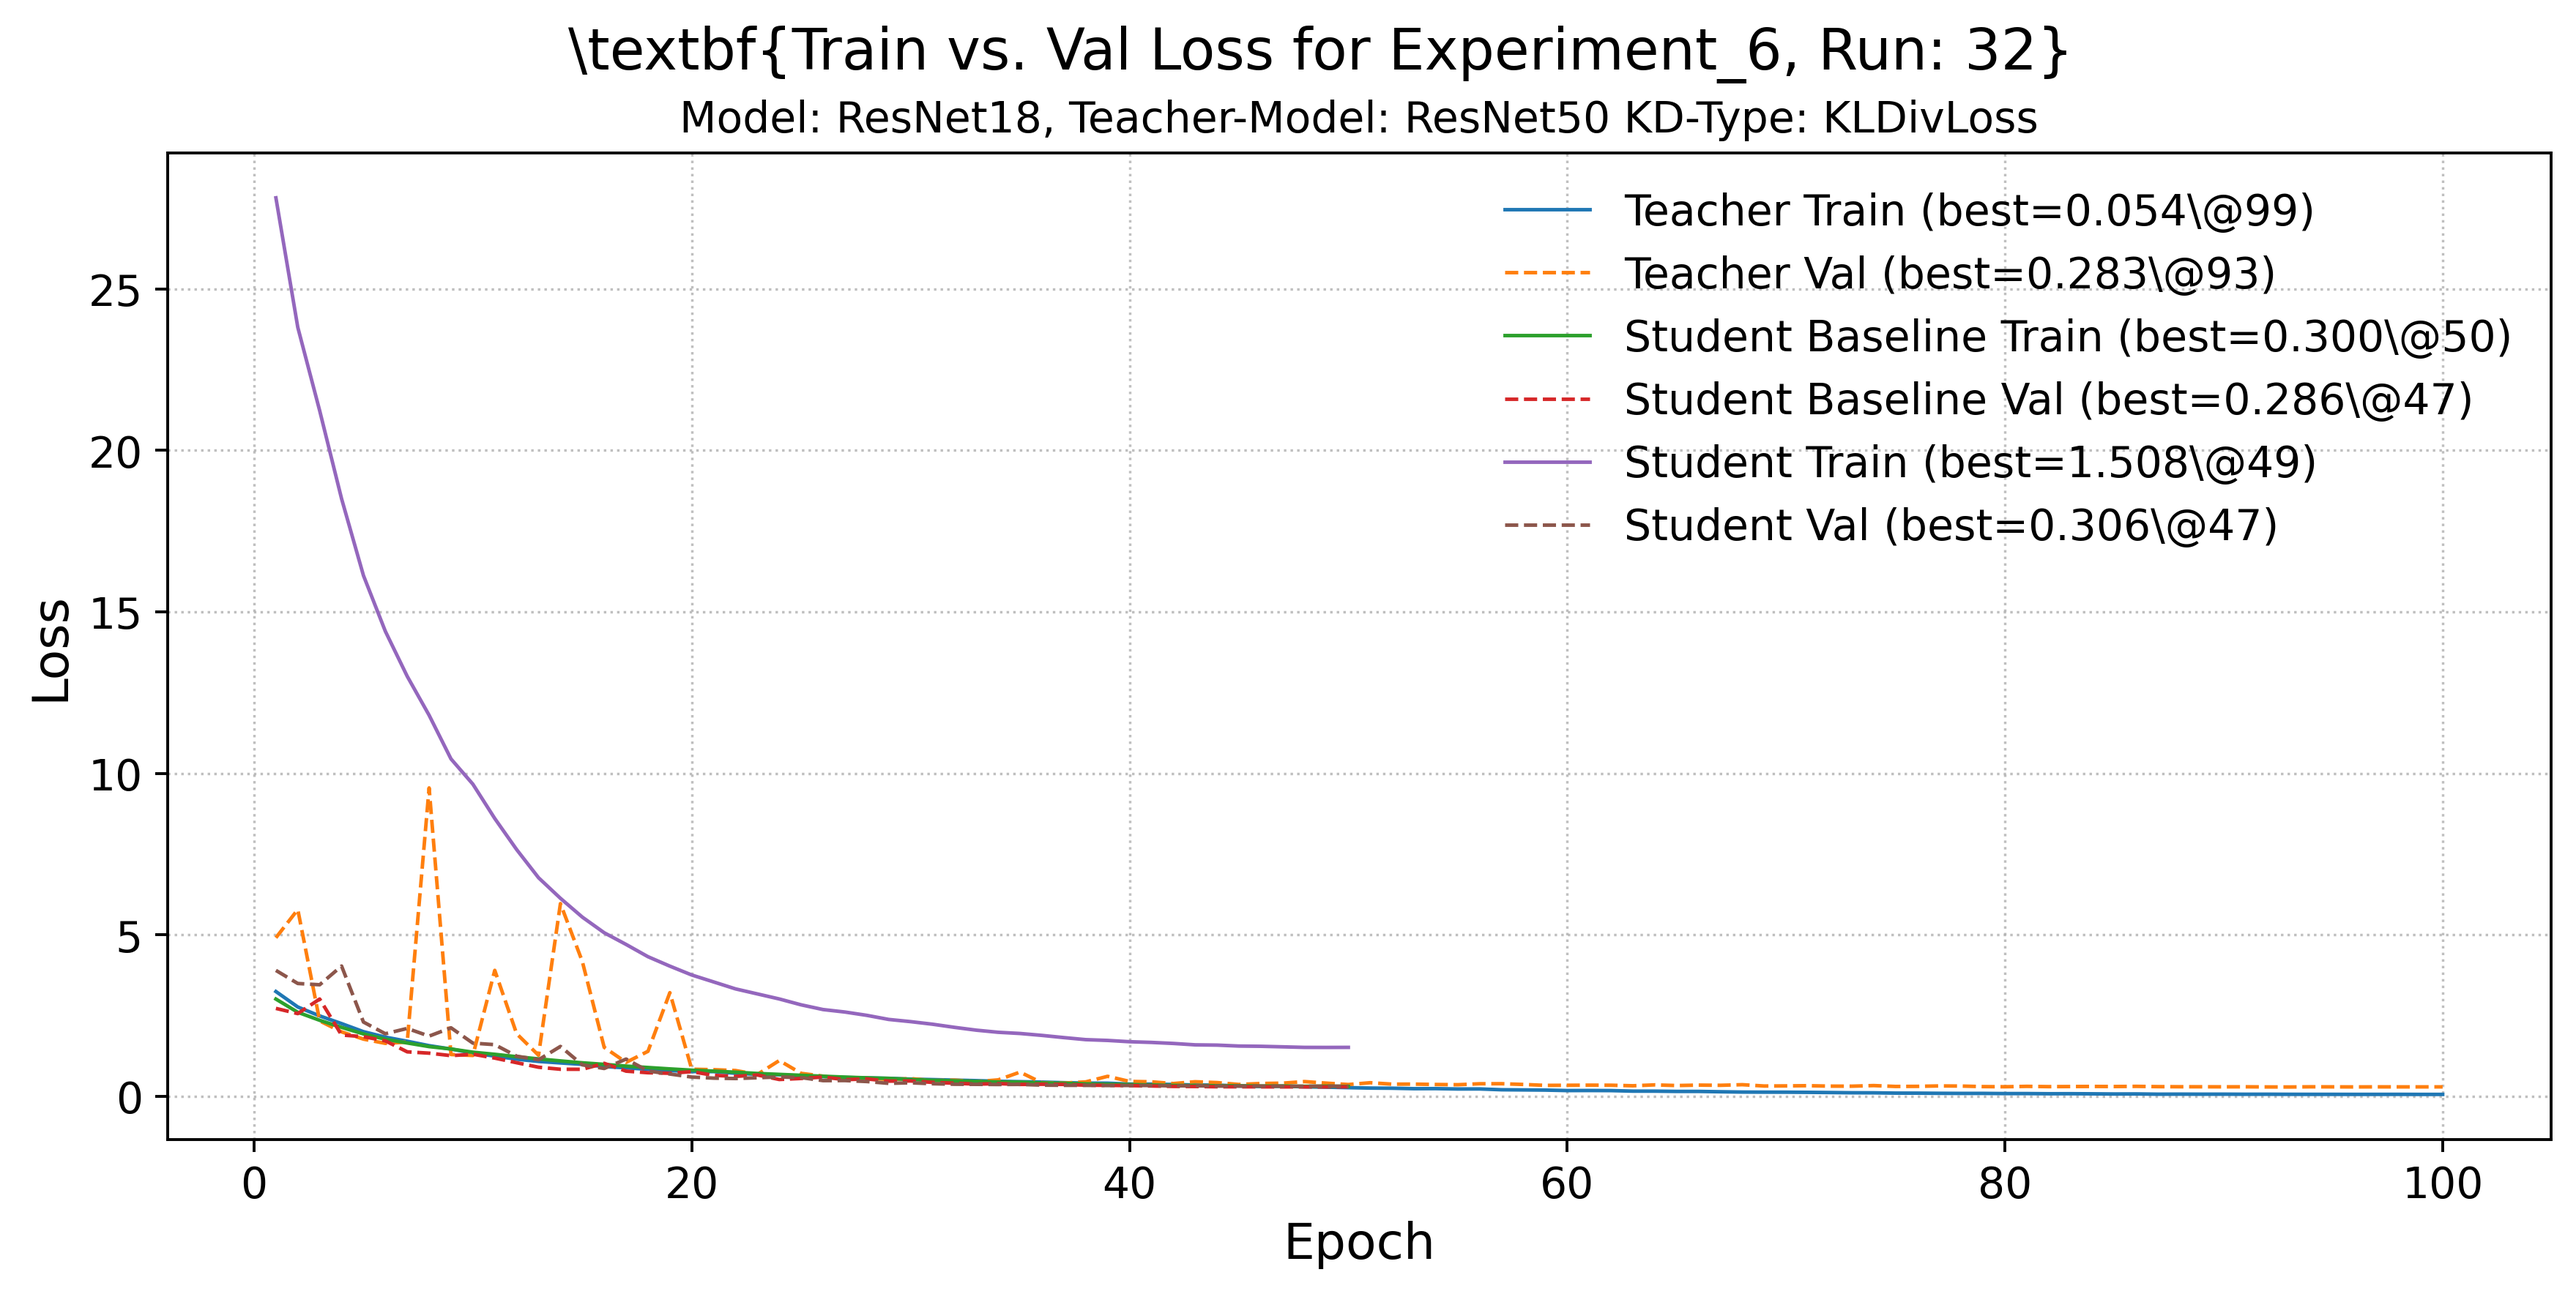
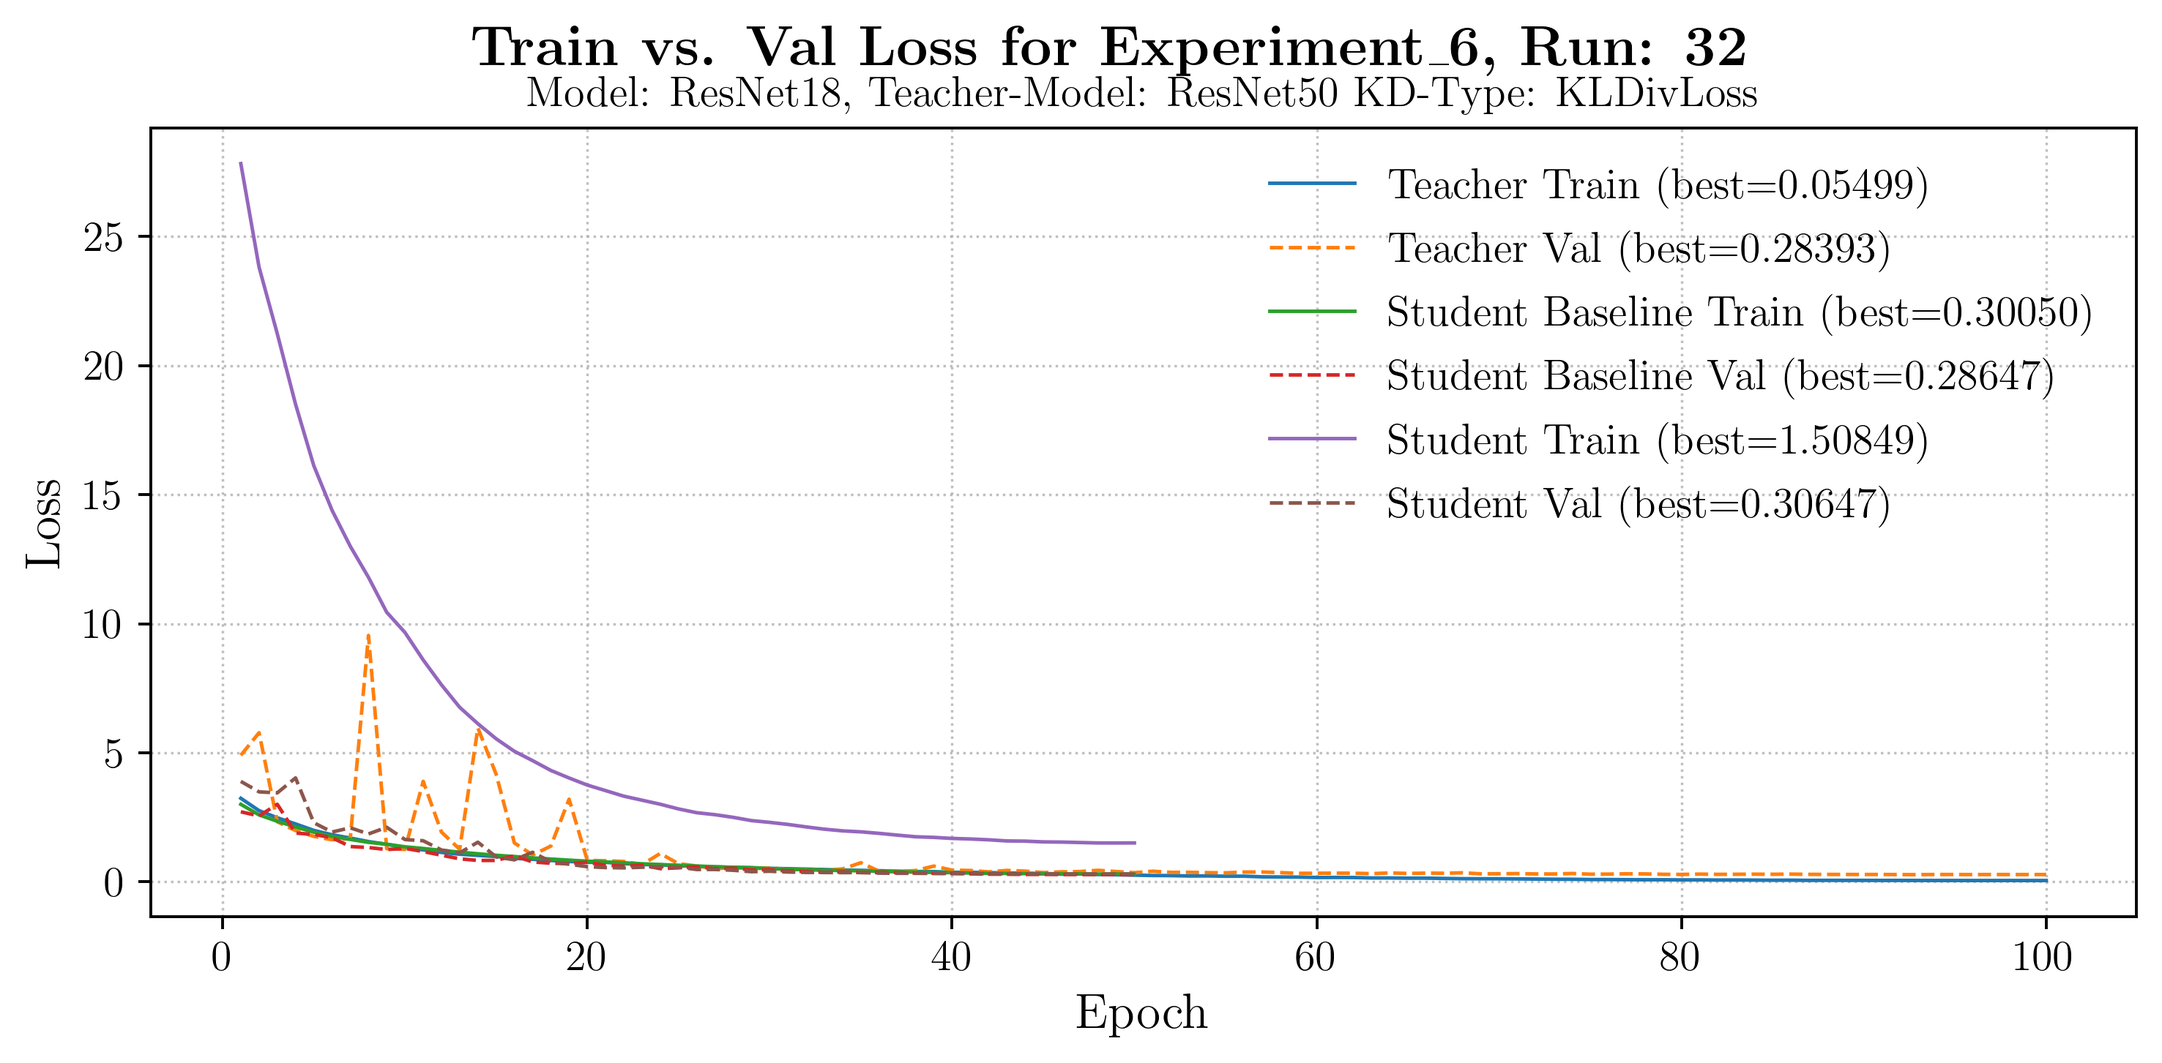
do plots exp6

diff --git a/framework/utils/plot_repository.py b/framework/utils/plot_repository.py
@@ -25,6 +25,46 @@ rcParams.update({
     "figure.dpi": 400
 })
 
+def plot_teacher_student_metrics(cfg_path, project_root=".", set_png_dpi=400, use_latex=True):
+    """
+    Plot loss and validation accuracy vs. epoch for teacher, student with TS, and student without TS.
+    Each plot is saved separately. Legends include best values per series.
+    All paths are resolved relative to the given project_root.
+
+    Returns:
+        dict with keys 'loss' and 'val_acc' pointing to saved PNG paths.
+    """
+    # Load config
+    cfg = load_config_toml(cfg_path)
+
+    # Global figure DPI (keeps your original behavior)
+    rcParams.update({"figure.dpi": set_png_dpi})
+    rcParams.update({"text.usetex": use_latex})
+
+    # Resolve paths
+    project_root = Path(project_root).expanduser().resolve()
+    cfg_path = Path(cfg_path).expanduser().resolve()
+    dir_config = cfg_path.parent
+
+    # Load available series
+    series = _prepare_series(cfg, project_root, cfg_path)
+
+    # Prepare output dir
+    save_dir = dir_config / "plots"
+    save_dir.mkdir(parents=True, exist_ok=True)
+
+    figsize = (10, 4)
+
+    # Make plots
+    loss_path = _plot_loss(series, cfg, save_dir,figsize=figsize)
+    val_acc_path = _plot_val_accuracy(series, cfg, save_dir,figsize=figsize)
+
+    tv_acc_path = _plot_train_vs_val_accuracy(series, cfg, save_dir,figsize=figsize)
+    tv_loss_path = _plot_train_vs_val_loss(series, cfg, save_dir,figsize=figsize)
+
+    log.info(f"Plots generated save dir: {save_dir}")
+    return {"loss": str(loss_path), "val_acc": str(val_acc_path)}
+
 def _load_metrics(path: str) -> pd.DataFrame:
     """Load a JSONL metrics file (one JSON object per line) and return a DataFrame with epoch and metrics."""
     with open(path, "r") as f:
@@ -199,7 +239,6 @@ def _plot_val_accuracy(series, cfg, save_dir: Path, figsize=(12, 5)):
     fig.suptitle(rf"\textbf{{Accuracy for {cfg.experiment.name}, Run: {cfg.experiment.run}}}")
     if cfg.training.teacher_student.train_student:
         subtitle = (
-            f"Experiment: {cfg.experiment.name}, Run: {cfg.experiment.run}, "
             f"Model: {cfg.model.name}, "
             f"Teacher-Model: {cfg.training.teacher_student.teacher_model_name} "
             f"KD-Type: {cfg.training.kd_type}"
@@ -221,43 +260,7 @@ def _plot_val_accuracy(series, cfg, save_dir: Path, figsize=(12, 5)):
     return out_path
 
 
-def plot_teacher_student_metrics(cfg_path, project_root=".", set_png_dpi=400, use_latex=True):
-    """
-    Plot loss and validation accuracy vs. epoch for teacher, student with TS, and student without TS.
-    Each plot is saved separately. Legends include best values per series.
-    All paths are resolved relative to the given project_root.
 
-    Returns:
-        dict with keys 'loss' and 'val_acc' pointing to saved PNG paths.
-    """
-    # Load config
-    cfg = load_config_toml(cfg_path)
-
-    # Global figure DPI (keeps your original behavior)
-    rcParams.update({"figure.dpi": set_png_dpi})
-    rcParams.update({"text.usetex": use_latex})
-
-    # Resolve paths
-    project_root = Path(project_root).expanduser().resolve()
-    cfg_path = Path(cfg_path).expanduser().resolve()
-    dir_config = cfg_path.parent
-
-    # Load available series
-    series = _prepare_series(cfg, project_root, cfg_path)
-
-    # Prepare output dir
-    save_dir = dir_config / "plots"
-    save_dir.mkdir(parents=True, exist_ok=True)
-
-    # Make plots
-    loss_path = _plot_loss(series, cfg, save_dir)
-    val_acc_path = _plot_val_accuracy(series, cfg, save_dir)
-
-    tv_acc_path = _plot_train_vs_val_accuracy(series, cfg, save_dir)
-    tv_loss_path = _plot_train_vs_val_loss(series, cfg, save_dir)
-
-    log.info(f"Plots generated save dir: {save_dir}")
-    return {"loss": str(loss_path), "val_acc": str(val_acc_path)}
 
 
 def _plot_train_vs_val_accuracy(series, cfg, save_dir: Path, figsize=(12, 5)):

diff --git a/framework/utils/generate_plots.py b/framework/utils/generate_plots.py
@@ -20,8 +20,8 @@ def main():
     # _make_plots_for_experiment(experiment_name="Experiment_1", num_runs=12, only_overview=False)
     # _make_plots_for_experiment(experiment_name="Experiment_3", num_runs=24, only_overview=False)
     # _make_plots_for_experiment(experiment_name="Experiment_4", num_runs=24, only_overview=False)
-    _make_plots_for_experiment(experiment_name="Experiment_5", num_runs=7, only_overview=False)
-    # _make_plots_for_experiment(experiment_name="Experiment_6", num_runs=38, only_overview=False)
+    # _make_plots_for_experiment(experiment_name="Experiment_5", num_runs=7, only_overview=False)
+    _make_plots_for_experiment(experiment_name="Experiment_6", num_runs=39, only_overview=False)
 
 
 def _make_plots_for_experiment(experiment_name: str, num_runs: int, only_overview: bool = False):
@@ -34,7 +34,12 @@ def _make_plots_for_experiment(experiment_name: str, num_runs: int, only_overvie
     if not only_overview:
         for i in range(1, num_runs + 1):
             cfg_path = base_dir / f"Run_{i}" / "config.toml"
-            plot_teacher_student_metrics(cfg_path, project_root=".", set_png_dpi=350)
+            if cfg_path.exists():
+                print("Config file exists:", cfg_path)
+                plot_teacher_student_metrics(cfg_path, project_root=".", set_png_dpi=350)
+            else:
+                print("Config file does not exist:", cfg_path)
+
 
     _make_overview_png(
         base_dir=str(base_dir),
